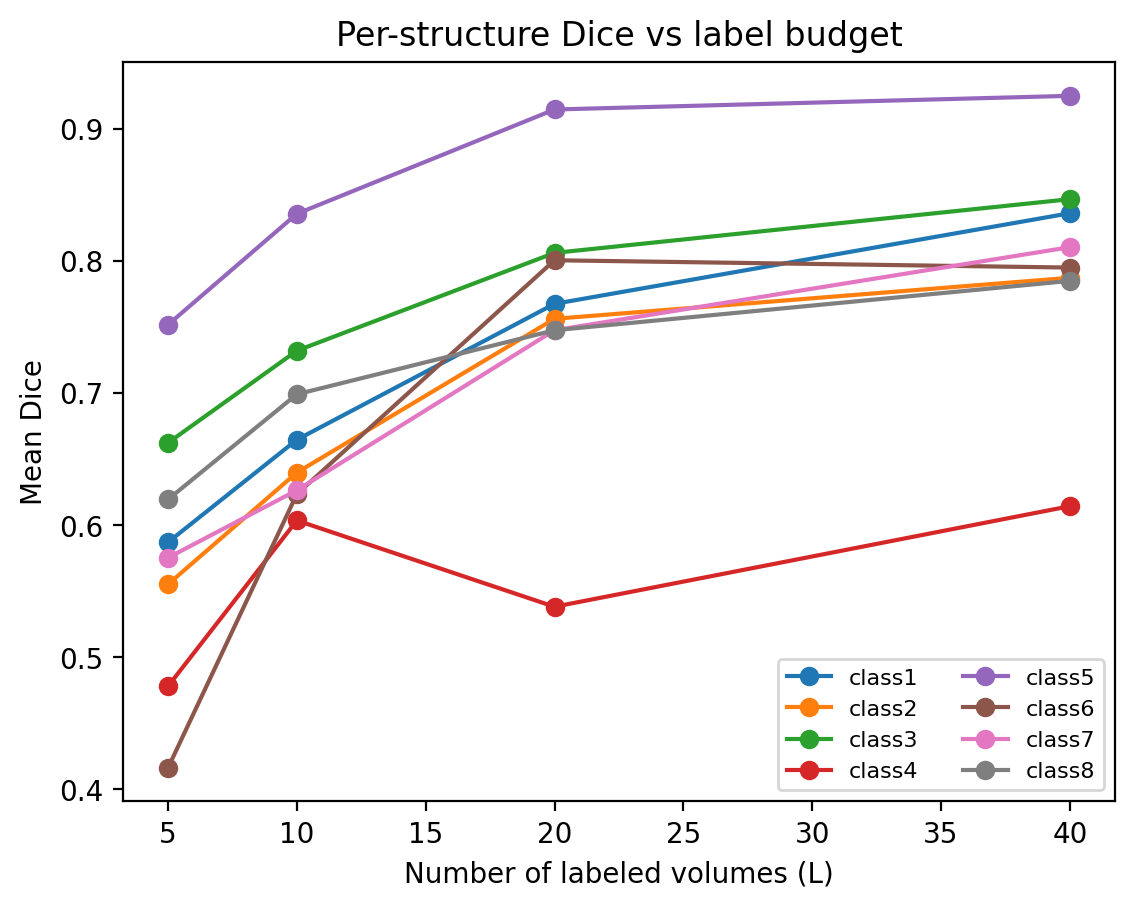
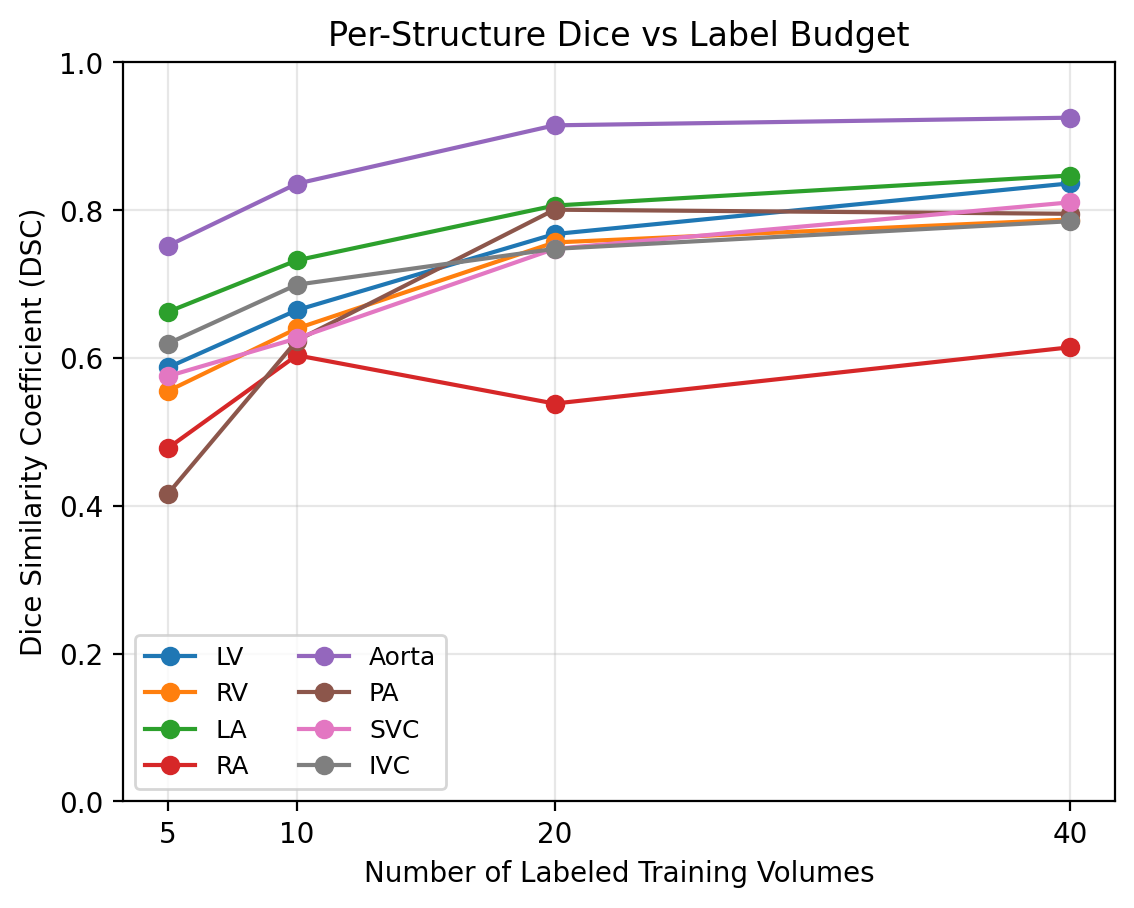
Add prettified per-structure Dice plot with anatomy labels

diff --git a/scripts/plot_per_class_dice_pretty.py b/scripts/plot_per_class_dice_pretty.py
@@ -1,0 +1,70 @@
+import json
+from pathlib import Path
+import matplotlib.pyplot as plt
+
+# (label budget, dataset id)
+BUDGETS = [(5, 985), (10, 986), (20, 987), (40, 988)]
+K = 8
+
+STRUCT_NAMES = {
+    1: "LV", 2: "RV", 3: "LA", 4: "RA",
+    5: "Aorta", 6: "PA", 7: "SVC", 8: "IVC"
+}
+
+def load_summary(did: int) -> dict:
+    p = Path("outputs/metrics") / f"D{did}_summary.json"
+    if not p.exists():
+        raise FileNotFoundError(
+            f"Missing {p}. If this pod does not have outputs/metrics/, run:\n"
+            f"  python scripts/recompute_metrics_from_preds.py\n"
+        )
+    return json.loads(p.read_text())
+
+def pick_key(d: dict, candidates: list[str]) -> str:
+    for c in candidates:
+        if c in d:
+            return c
+    raise KeyError(f"None of these keys exist: {candidates}. Sample keys: {list(d.keys())[:40]}")
+
+def main():
+    out_plots = Path("outputs/plots")
+    out_final = Path("outputs/final_report")
+    out_plots.mkdir(parents=True, exist_ok=True)
+    out_final.mkdir(parents=True, exist_ok=True)
+
+    sums = {did: load_summary(did) for _, did in BUDGETS}
+    budgets = [b for b, _ in BUDGETS]
+
+    # Determine the per-class Dice key pattern (robust)
+    mean0 = sums[BUDGETS[0][1]]["mean"]
+    dice_key = {}
+    for k in range(1, K + 1):
+        dice_key[k] = pick_key(mean0, [
+            f"dice_{k}",
+            f"mean_dice_{k}",
+            f"class{k}_dice",
+            f"dice_class_{k}",
+        ])
+
+    # Plot
+    plt.figure()
+    for k in range(1, K + 1):
+        y = [sums[did]["mean"][dice_key[k]] for _, did in BUDGETS]
+        plt.plot(budgets, y, marker="o", label=STRUCT_NAMES.get(k, f"Structure {k}"))
+
+    plt.xticks(budgets, [str(b) for b in budgets])
+    plt.ylim(0.0, 1.0)
+    plt.grid(True, alpha=0.3)
+    plt.title("Per-Structure Dice vs Label Budget")
+    plt.xlabel("Number of Labeled Training Volumes")
+    plt.ylabel("Dice Similarity Coefficient (DSC)")
+    plt.legend(ncol=2, fontsize=9)
+
+    for outdir in [out_plots, out_final]:
+        (outdir / "per_class_dice_vs_budget.png").parent.mkdir(parents=True, exist_ok=True)
+        plt.savefig(outdir / "per_class_dice_vs_budget.png", dpi=200, bbox_inches="tight")
+
+    print("[OK] Wrote per_class_dice_vs_budget.png to outputs/plots and outputs/final_report")
+
+if __name__ == "__main__":
+    main()
